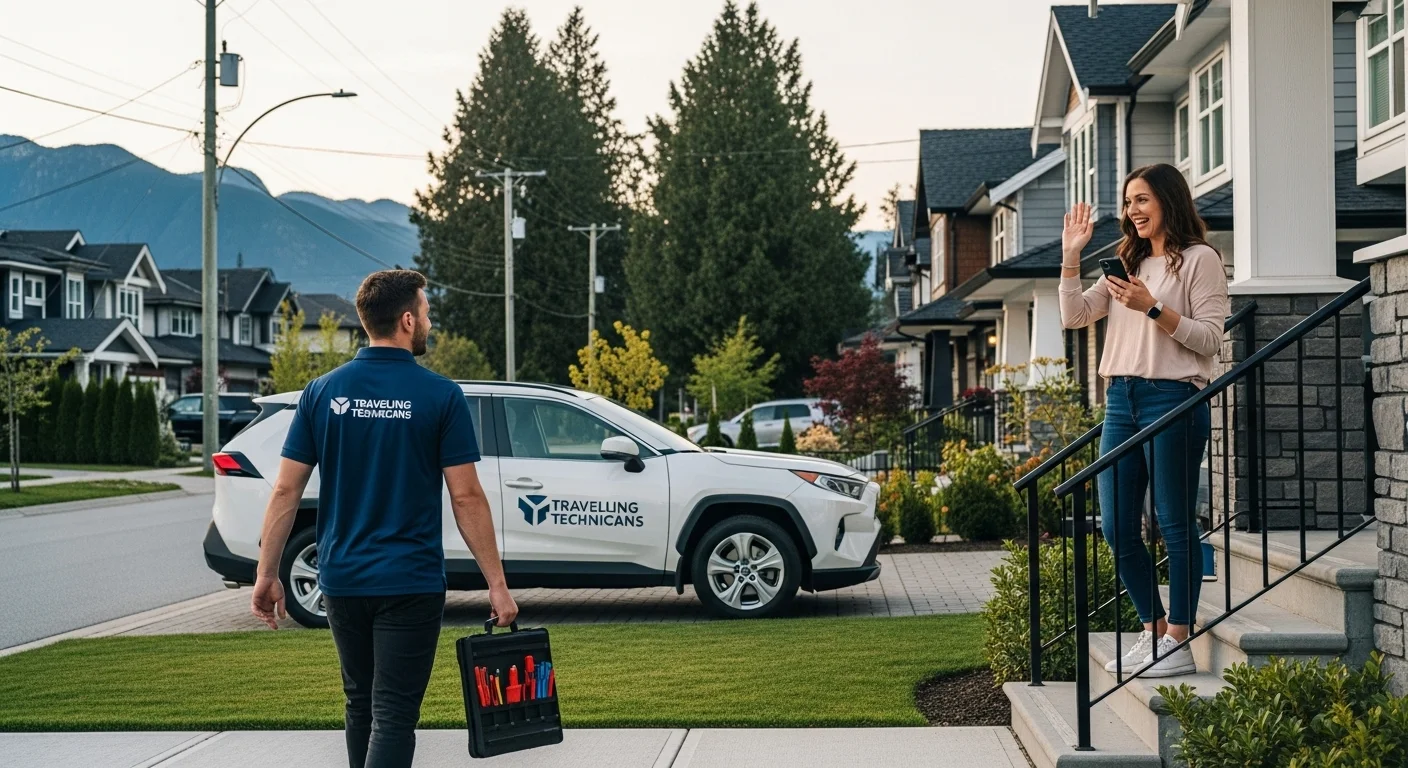
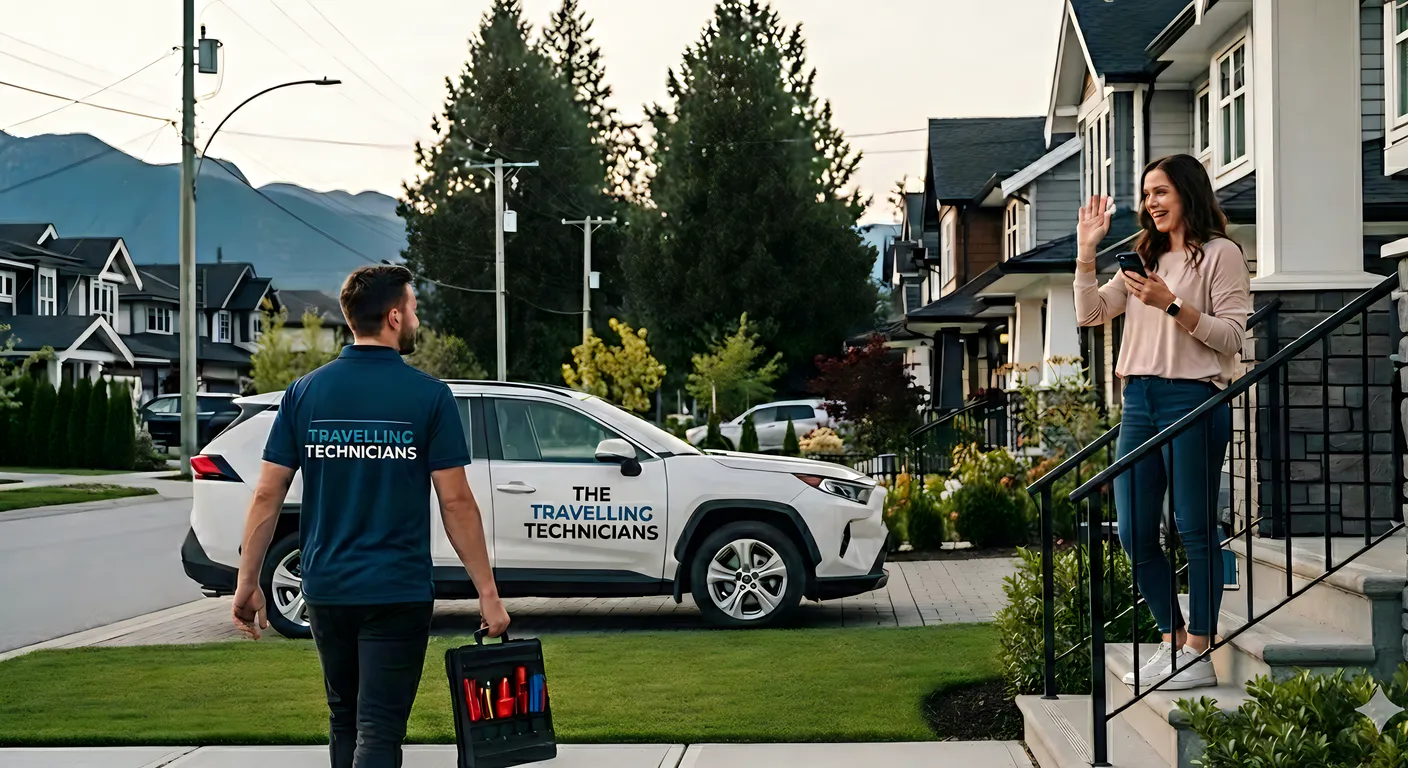
fix: Replace hero images with corrected branding
Regenerated WebP (167KB) and JPG (254KB) from corrected PNG source
with proper "THE TRAVELLING TECHNICIANS" text. Updated RepairIndex
to use WebP instead of JPG for consistency with all other references.

diff --git a/src/components/templates/RepairIndex.tsx b/src/components/templates/RepairIndex.tsx
@@ -308,7 +308,7 @@ export default function RepairIndex({ cities = [], services = [], models = [], r
               <div className="relative">
                 <div className="relative h-[350px] w-full rounded-lg overflow-hidden shadow-custom-lg">
                   <OptimizedImage
-                    src="/images/services/doorstep-repair-tech.jpg"
+                    src="/images/services/doorstep-repair-tech-optimized.webp"
                     alt="Technician providing professional device repair services at customer location"
                     fill
                     className="object-cover"
